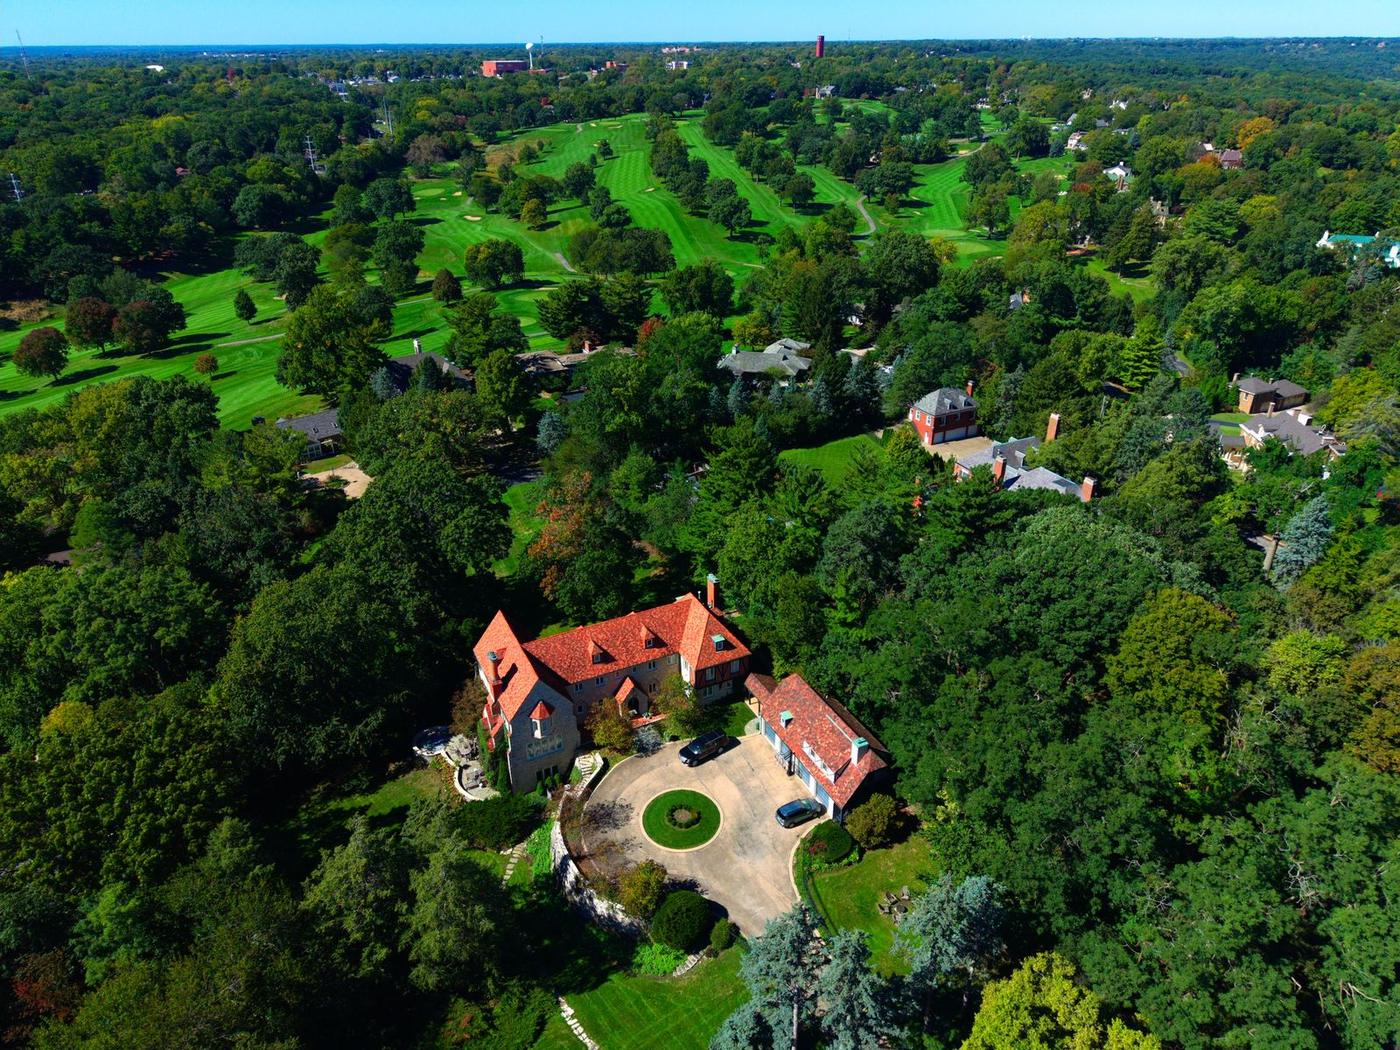
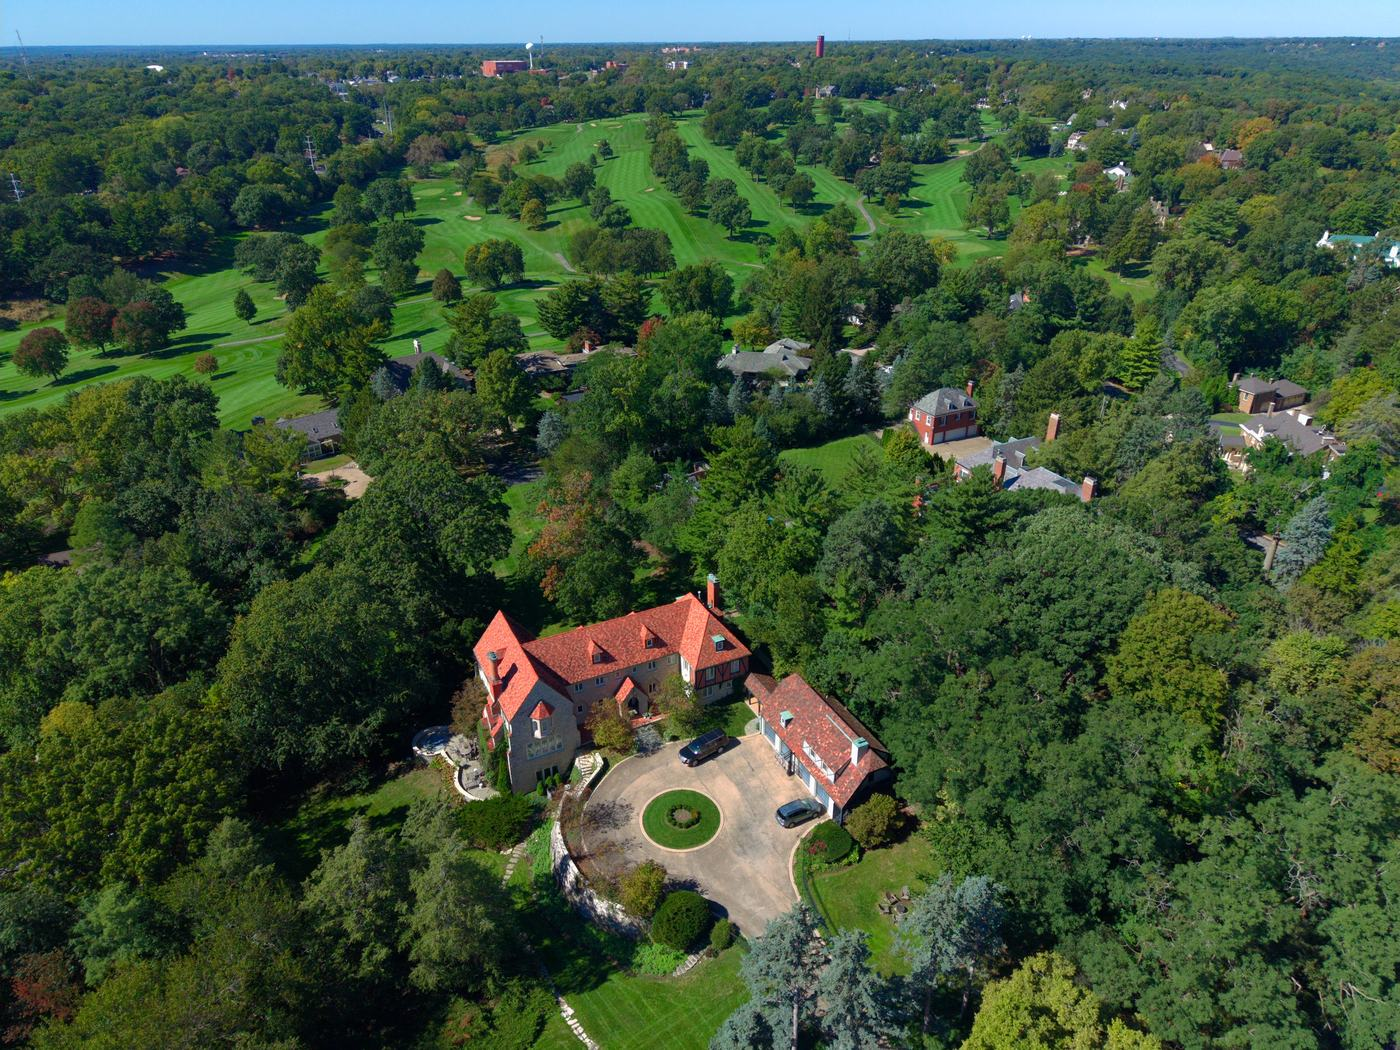
Swap aerial gallery to the newly graded photos
Claude-Session: https://claude.ai/code/session_01PQGXWjD7Nz993Rj5sRhsWx

Changed region(s): [[0.0, 0.0305, 1.0, 1.0], [0.0, 0.8229, 0.0307, 0.8838]]

diff --git a/index.html b/index.html
@@ -996,7 +996,7 @@
     <section id="aerial-gallery" class="section-alt">
         <h2 class="fade-in">Peoria From Above</h2>
         <p class="photo-gallery-intro fade-in">Aerial stills from a single morning along Grandview Drive and the Illinois River, shot and graded in-house.</p>
-        <div class="photo-gallery fade-in"><figure class="photo-tile"><img src="aerial-estate-golf.jpg" alt="Aerial view of a red-tile-roof estate beside a golf course in Peoria, Illinois" loading="lazy" width="1400" height="1050"></figure><figure class="photo-tile"><img src="aerial-marina.jpg" alt="Aerial view of a marina on the Illinois River near Peoria" loading="lazy" width="1400" height="1050"></figure><figure class="photo-tile"><img src="aerial-clubhouse-river.jpg" alt="Drone view of a Peoria golf clubhouse with the Illinois River in the distance" loading="lazy" width="1400" height="1050"></figure><figure class="photo-tile"><img src="aerial-river-boat.jpg" alt="Boat cruising the Illinois River near Peoria, aerial view" loading="lazy" width="1400" height="1050"></figure><figure class="photo-tile"><img src="aerial-estate-lawn.jpg" alt="Low aerial angle of a Peoria estate with manicured lawn" loading="lazy" width="1400" height="1050"></figure><figure class="photo-tile"><img src="aerial-river-overlook.jpg" alt="Drone view along the Illinois River bluffs near Peoria" loading="lazy" width="1400" height="1050"></figure></div>
+        <div class="photo-gallery fade-in"><figure class="photo-tile"><img src="aerial-estate-front.jpg" alt="Aerial view of a red-tile-roof Tudor estate with striped lawn and circular drive in Peoria, Illinois" loading="lazy" width="1400" height="1050"></figure><figure class="photo-tile"><img src="aerial-marina.jpg" alt="Aerial view of a marina and boat slips on the Illinois River near Peoria" loading="lazy" width="1400" height="1050"></figure><figure class="photo-tile"><img src="aerial-clubhouse-golf.jpg" alt="Aerial view of a Peoria golf clubhouse and fairways with the Illinois River in the distance" loading="lazy" width="1400" height="1050"></figure><figure class="photo-tile"><img src="aerial-river-boat.jpg" alt="Boat cruising the Illinois River with a bridge in the distance, aerial view" loading="lazy" width="1400" height="1050"></figure><figure class="photo-tile"><img src="aerial-estate-golf.jpg" alt="Drone view of a red-roof estate with a golf course stretching out behind it in Peoria" loading="lazy" width="1400" height="1050"></figure><figure class="photo-tile"><img src="aerial-sandbar.jpg" alt="Illinois River sandbar and marshland seen from a drone" loading="lazy" width="1400" height="1050"></figure></div>
     </section>
 
     <!-- CLIENT REVIEWS (copied word-for-word from Google) -->

diff --git a/real-estate.html b/real-estate.html
@@ -786,7 +786,7 @@
     <section id="aerial-gallery" class="section-alt">
         <h2 class="fade-in">Listing Photography From the Air</h2>
         <p class="photo-gallery-intro fade-in">Every property gets high-resolution aerial stills along with the video, so the listing shows the lot, the roofline and the neighborhood.</p>
-        <div class="photo-gallery fade-in"><figure class="photo-tile"><img src="aerial-estate-golf.jpg" alt="Aerial view of a red-tile-roof estate beside a golf course in Peoria, Illinois" loading="lazy" width="1400" height="1050"></figure><figure class="photo-tile"><img src="aerial-estate-top.jpg" alt="Top-down drone view of an estate driveway and roof in Peoria" loading="lazy" width="1400" height="1050"></figure><figure class="photo-tile"><img src="aerial-estate-lawn.jpg" alt="Low aerial angle of a Peoria estate with manicured lawn" loading="lazy" width="1400" height="1050"></figure></div>
+        <div class="photo-gallery fade-in"><figure class="photo-tile"><img src="aerial-estate-front.jpg" alt="Aerial view of a red-tile-roof Tudor estate with striped lawn and circular drive in Peoria, Illinois" loading="lazy" width="1400" height="1050"></figure><figure class="photo-tile"><img src="aerial-estate-golf.jpg" alt="Drone view of a red-roof estate with a golf course stretching out behind it in Peoria" loading="lazy" width="1400" height="1050"></figure><figure class="photo-tile"><img src="aerial-estate-top.jpg" alt="Top-down aerial of an estate roofline, circular drive and manicured grounds" loading="lazy" width="1400" height="1050"></figure></div>
     </section>
 
 
